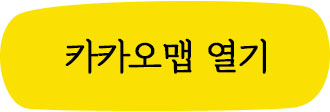
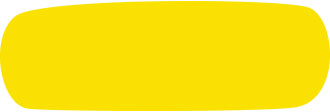
adjust image and style

Changed region(s): [[0.1818, 0.3214, 0.6061, 0.6696], [0.6061, 0.3482, 0.8182, 0.6696]]

diff --git a/src/components/Where.js b/src/components/Where.js
@@ -19,20 +19,27 @@ class Where extends Component {
             <div className="Where bottomBorder sidePadding">
                 <h1>여기에서 뵈어요</h1>
                 <div className="Ribbon">
-                    <img src="/image/invi_ic_ribbon@2x.jpg"/>
+                    <img src="/image/invi_ic_ribbon@2x.jpg" alt="ribbon"/>
                 </div>
+                <h3 className="Event-time">9월 9일 토요일 저녁 6시</h3>
                 <h3>더 스카이팜</h3>
-                <p>
+                <p className="Contents">
                     서울특별시 영등포구 여의대로 24<br/>
                     전경련회관 50층<br/>
                     02-2055-4440<br/>
-                    주차 가능(지하주차장)
+                    주차가능(지하주차장)
                 </p>
                 <div className="Map-container">
                     <img width="100%" src="image/invi_img_map@2x.jpg" alt="map" />
-                    <div>
-                        <button className="Naver" onClick={this._openNaverMap.bind(this)}/>
-                        <button className="Kakao" onClick={this._openDaumMap.bind(this)}/>
+                    <div className="Map-buttons">
+                        <li>
+                            <ul className="Naver">
+                                <button onClick={this._openNaverMap.bind(this)}>네이버지도 열기</button>
+                            </ul>
+                            <ul className="Kakao">
+                                <button onClick={this._openDaumMap.bind(this)}>카카오지도 열기</button>
+                            </ul>
+                        </li>
                     </div>
                 </div>
             </div>

diff --git a/src/App.css b/src/App.css
@@ -2,58 +2,80 @@
 @font-face { font-family: Gyungphil; src: url('/DX-Gyungphil-B.ttf'); }
 
 input, textarea {
-  box-sizing : border-box;
+    box-sizing : border-box;
+    border-color: black;
+    border-width: 1px;
+    padding: 13px 10px;
+    margin: 0;
+    font-size: 0.95em;
 }
 
-h1, h3, p {
-  font-family: Gyungphil, sans-serif;
+h1, h3, p, ul, button {
+    font-family: Gyungphil, sans-serif;
+    padding: 0;
+    margin: 0;
+}
+
+h1 {
+    font-size: 1.5em;
+}
+
+h3 {
+    font-size: 1.25em;
 }
 
 p {
-  font-weight: lighter;
+    font-weight: lighter;
+    font-size: 0.95em;
+    line-height: 26px;
+}
+
+a {
+    text-decoration: none;
+}
+
+p.Contents {
+    margin: 40px 0 0 0;
 }
 
 button {
-  border: none;
+    border: none;
+}
+
+li {
+    list-style: none;
 }
 
 .bottomBorder {
-  border-bottom: 1px solid gray;
+    border-bottom: 1px solid #dedede;
+    padding-top: 50px;
+    padding-bottom: 55px;
 }
 
 .sidePadding {
-  padding-left: 30px;
-  padding-right: 30px;
+    padding-left: 30px;
+    padding-right: 30px;
 }
 
 .App {
-  text-align: center;
+    text-align: center;
 }
 
 .Intro {
-  width: 100%;
+    width: 100%;
 }
 
 .App-logo {
-  animation: App-logo-spin infinite 10s linear;
+    animation: App-logo-spin infinite 10s linear;
 }
 
 .Ribbon img {
-  height: 29px;
-}
-
-.App-header {
-  /*background-color: #222;*/
-  /*height: 150px;*/
-  /*padding: 20px;*/
-  /*color: white;*/
-}
-
-.App-intro {
-  /*font-size: large;*/
+    height: 29px;
+    margin-top: 15px;
+    margin-bottom: 30px;
 }
 
 @keyframes App-logo-spin {
-  from { transform: rotate(0deg); }
-  to { transform: rotate(360deg); }
+    from { transform: rotate(0deg); }
+    to { transform: rotate(360deg); }
 }

diff --git a/src/components/When.js b/src/components/When.js
@@ -9,22 +9,22 @@ class When extends Component {
     render() {
         return (
             <div className="When bottomBorder">
-                <h1>저희 둘 결혼합니다</h1>
+                <h1>저희 둘 결혼해요</h1>
                 <div className="Ribbon">
-                    <img src="/image/invi_ic_ribbon@2x.jpg"/>
+                    <img src="/image/invi_ic_ribbon@2x.jpg" alt="ribbon"/>
                 </div>
-                <p>
+                <p className="Parents">
                     <strong>신태현</strong> <span role="img" aria-label="Dot">・ </span> <strong>박경애</strong> 의 장남 <strong>신범철</strong>
                 </p>
-                <p>
+                <p className="Parents">
                     <strong>유재원</strong> <span role="img" aria-label="Dot">・ </span> <strong>김은숙</strong> 의 장녀 <strong>유선영</strong>
                 </p>
-                <p>
-                    오랜시간동안<br/>
-                    옆자리 앉아서 투닥투닥 협업하던 저희 둘이<br/>
-                    콩닥콩닥 설레이는 결혼을 하게 되었습니다<br/>
-                    부디 참해주셔서,<br/>
-                    저희의 첫걸음을 축하해 주세요.
+                <p className="Contents">
+                    오랜시간동안 옆자리에 앉아서<br/>
+                    투닥투닥 협업하던 저희 둘이<br/>
+                    콩닥콩닥 설레이는 결혼을 하게 되었습니다.<br/>
+                    부디 참석해주셔서,<br/>
+                    저희의 첫걸음을 축하해주세요.
                 </p>
             </div>
         );

diff --git a/public/index.html b/public/index.html
@@ -2,8 +2,12 @@
 <html lang="en">
   <head>
     <meta charset="utf-8">
-    <meta name="viewport" content="width=device-width, initial-scale=1, shrink-to-fit=no">
+    <meta name="viewport" content="width=device-width, initial-scale=1.0, shrink-to-fit=no, minimum-scale=1.0, user-scalable=no, maximum-scale=1.0">
     <meta name="theme-color" content="#000000">
+    <meta property="og:title" content="춀딱써니 결혼해요">
+    <meta property="og:url" content="http://m.daum.net/">
+    <meta property="og:image" content="/image/invi_intro_img@2x.jpg">
+    <meta property="og:description" content="선영&범철의 결혼식을 축하해 주세요!">
     <!--
       manifest.json provides metadata used when your web app is added to the
       homescreen on Android. See https://developers.google.com/web/fundamentals/engage-and-retain/web-app-manifest/
@@ -21,7 +25,7 @@
     -->
      <link rel="stylesheet" type="text/css" href="https://cdnjs.cloudflare.com/ajax/libs/slick-carousel/1.6.0/slick.min.css" />
     <link rel="stylesheet" type="text/css" href="https://cdnjs.cloudflare.com/ajax/libs/slick-carousel/1.6.0/slick-theme.min.css" />
-    <title>React App</title>
+    <title>춀딱써니 결혼합니다</title>
   </head>
   <body>
     <noscript>

diff --git a/src/components/Where.css b/src/components/Where.css
@@ -1,17 +1,45 @@
 .Where .Map-container {
 }
 
-.Where .Map-container button {
-    width: 50%;
+.Where .Map-container img {
+    margin: 20px 0;
+}
+
+.Where .Event-time {
+    margin-bottom: 6px;
+}
+
+.Where .Map-buttons > li > ul {
+    display: inline-block;
+    width: 49%;
     height: 56px;
 }
 
-.Where .Naver {
-    background: url('/image/invi_btn_navermap@2x.jpg') no-repeat center;
-    background-size: contain;
+.Where .Map-buttons .Naver {
+    margin-right: 5px;
 }
 
-.Where .Kakao {
-    background: url('/image/invi_btn_kakaomap@2x.jpg') no-repeat center;
-    background-size: contain;
+.Where .Map-buttons .Kakao {
+    margin: 0;
+}
+
+.Where .Map-container button {
+    width: 100%;
+    height: 100%;
+    font-size: 1em;
+}
+
+.Where .Naver button {
+    background: url('/image/invi_btn_navermap@2x.jpg') no-repeat;
+    background-size: 100% 100%;
+    margin-left: auto;
+    margin-right: 1px;
+    color: white;
+}
+
+.Where .Kakao button {
+    background: url('/image/invi_btn_kakaomap@2x.jpg') no-repeat;
+    background-size: 100% 100%;
+    margin-left: 1px;
+    margin-right: auto;
 }

diff --git a/src/components/ImageSlider.js b/src/components/ImageSlider.js
@@ -19,10 +19,14 @@ class ImageSlider extends Component {
         };
         return (
             <Slider {...settings} className="ImageSlider">
-                <img src="image/header01.jpeg" alt="header01" />
-                <img src="image/header02.jpeg" alt="header02" />
-                <img src="image/header03.jpeg" alt="header03" />
-                <img src="image/header04.jpeg" alt="header04" />
+                <img src="image/invi_photo_01@2x.jpg" alt="header01" />
+                <img src="image/invi_photo_03@2x.jpg" alt="header01" />
+                <img src="image/invi_photo_02@2x.jpg" alt="header01" />
+                <img src="image/invi_photo_04@2x.jpg" alt="header01" />
+                <img src="image/invi_photo_05@2x.jpg" alt="header01" />
+                <img src="image/invi_photo_06@2x.jpg" alt="header01" />
+                <img src="image/invi_photo_07@2x.jpg" alt="header01" />
+                <img src="image/invi_photo_08@2x.jpg" alt="header01" />
             </Slider>
         );
     }

diff --git a/src/components/GuestBook.js b/src/components/GuestBook.js
@@ -3,9 +3,10 @@
  */
 
 import React, { Component } from 'react';
-import GuestCreator from "./GuestCreator";
+import GuestCreator from './GuestCreator';
 import * as firebase from 'firebase';
-import GuestBookList from "./GuestBookList";
+import GuestBookList from './GuestBookList';
+import './GuestBook.css'
 
 class GuestBook extends Component {
     constructor() {
@@ -42,10 +43,10 @@ class GuestBook extends Component {
 
     render() {
         return (
-            <div className="sidePadding">
+            <div className="GuestBook sidePadding bottomBorder">
                 <h1>축하메시지 남겨주세요</h1>
                 <div className="Ribbon">
-                    <img src="/image/invi_ic_ribbon@2x.jpg"/>
+                    <img src="/image/invi_ic_ribbon@2x.jpg" alt="ribbon"/>
                 </div>
                 <GuestCreator onInsert={GuestBook._insertToFirebase.bind(this)} />
                 <GuestBookList guests={this.state.guests} />

diff --git a/src/components/Footer.js b/src/components/Footer.js
@@ -16,7 +16,7 @@ class Footer extends Component {
                     <a href="https://facebook.github.io/react/"><img src={logo} className="App-logo" alt="logo" /></a>
                     <a href="https://firebase.google.com/"><img src={firebase} className="App-logo" alt="logo" /></a>
                 </div>
-                <a href="https://github.com/zeushin/W-Card">W-Card</a> // TODO: 앱 아이콘 으로 대체
+                <p><a href="https://github.com/zeushin/W-Card">W-Card</a></p>
             </div>
         );
     }

diff --git a/src/components/GuestBookList.css b/src/components/GuestBookList.css
@@ -1,9 +1,21 @@
 .GuestBookList {
-
+    margin-top: 50px;
+    /*overflow: hidden;*/
 }
 
 .GuestBookList table {
     width: 100%;
+    font-size: 1em;
+}
+
+.GuestBookList table th, .GuestBookList table td {
+    text-align: left;
+    white-space: pre-line;
+    text-overflow: ellipsis;
+    overflow: hidden;
+    max-width: 1px;
+    height: 20px;
+    padding: 5px 0;
 }
 
 .GuestBookList table th {
@@ -11,5 +23,5 @@
 }
 
 .GuestBookList table td {
-    text-align: left;
+    padding-left: 8px;
 }

diff --git a/src/components/GuestCreator.css b/src/components/GuestCreator.css
@@ -3,9 +3,19 @@
     width: 100%;
 }
 
+.GuestCreator > input {
+    margin-bottom: 8px;
+}
+
+.GuestCreator > textarea {
+    margin-bottom: 15px;
+}
+
 .GuestCreator > button {
     width: 100%;
     height: 63px;
-    background: url('/image/invi_btn_message@2x.jpg') no-repeat center;
-    background-size: contain;
+    background: url('/image/invi_btn_message@2x.jpg') no-repeat;
+    background-size: 100% 100%;
+    font-size: 1em;
+    color: white;
 }

diff --git a/src/components/GuestCreator.js b/src/components/GuestCreator.js
@@ -53,7 +53,7 @@ class GuestCreator extends React.Component {
                           value={ this.state.contents }
                           onChange={ this.handleChange.bind(this) }
                 />
-                <button onClick={this.handleClick.bind(this)}/>
+                <button onClick={this.handleClick.bind(this)}>글남기기</button>
             </div>
         );
     }

diff --git a/src/App.js b/src/App.js
@@ -1,10 +1,8 @@
 import React, { Component } from 'react';
-import logo from './logo.svg';
 import './App.css';
 import Header from "./components/ImageSlider";
 import When from "./components/When";
 import Where from "./components/Where";
-import Who from "./components/Who";
 import GuestBook from "./components/GuestBook";
 import Footer from "./components/Footer";
 
